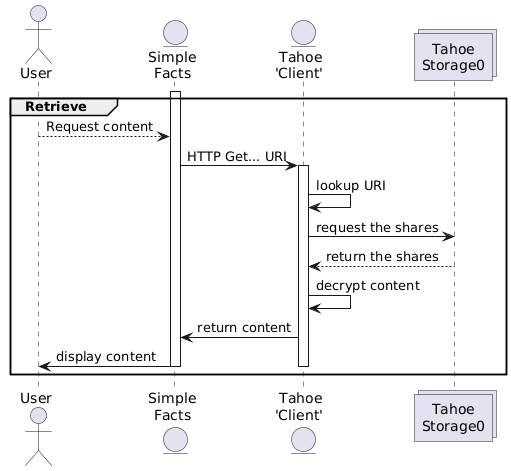
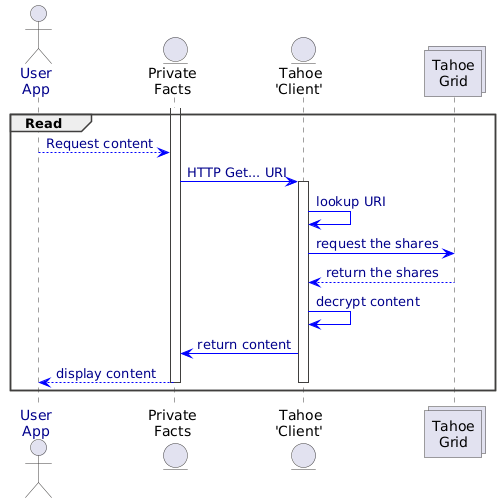
Update diagrams and move content
To fit better with the new pydata Sphinx Theme.

Changed region(s): [[0.0, 0.0, 1.0, 0.9809]]

diff --git a/docs/source/index.rst b/docs/source/index.rst
@@ -2,45 +2,19 @@
 Private Facts
 ==============
 
+.. toctree::
+    :maxdepth: 1
+
+    about
+    tutorials/index
+    faq
+    glossary
+
 .. pull-quote::
     The three rules of storing data for other people:
         * Don't lose the data
         * Don't let the wrong people see it.
         * Don't forget the first two rules.
-
-
-Private Facts aims to be the the mega tutorial to learn how a developer can interact with Tahoe-lafs from a user-facing application.
-This series of steps will cover the following milestones:
-
-    * create a local Tahoe-LAFS dev environment
-    * use the CLI to send some text and some files
-    * use the WebAPI to send some text and some files (examples with Python and curl)
-    * refactor a simple FastAPI app to connect to Tahoe-LAFS
-    * use Tahoe-LAFS as a backing store for that simple FastAPI app
-    * integrate a more complex data model from the FastAPI using SQLite and Tahoe-LAFS
-
-
-What happens when you use Private Facts?
-========================================
-
-Saving content using the Tahoe backing store
----------------------------------------------
-
-.. image:: upload_content.png
-
-
-Retrieving content from the Tahoe backing store:
-------------------------------------------------
-
-.. image:: retrieve_content.png
-
-
-.. toctree::
-    :maxdepth: 1
-
-    tutorials/index
-    faq
-    glossary
 
 Team Internal notes
 ===================

diff --git a/docs/source/about.rst b/docs/source/about.rst
@@ -1,0 +1,28 @@
+About Private Facts
+===================
+
+Private Facts aims to be the the mega tutorial to learn how a developer can interact with Tahoe-lafs from a user-facing application.
+This series of steps will cover the following milestones:
+
+    * create a local Tahoe-LAFS dev environment
+    * use the CLI to send some text and some files
+    * use the WebAPI to send some text and some files (examples with Python and curl)
+    * refactor a simple FastAPI app to connect to Tahoe-LAFS
+    * use Tahoe-LAFS as a backing store for that simple FastAPI app
+    * integrate a more complex data model from the FastAPI using SQLite and Tahoe-LAFS
+
+
+What happens when you use Private Facts?
+========================================
+
+Saving content using the Tahoe backing store
+---------------------------------------------
+
+.. image:: upload_content.png
+
+
+Retrieving content from the Tahoe backing store:
+------------------------------------------------
+
+.. image:: retrieve_content.png
+
